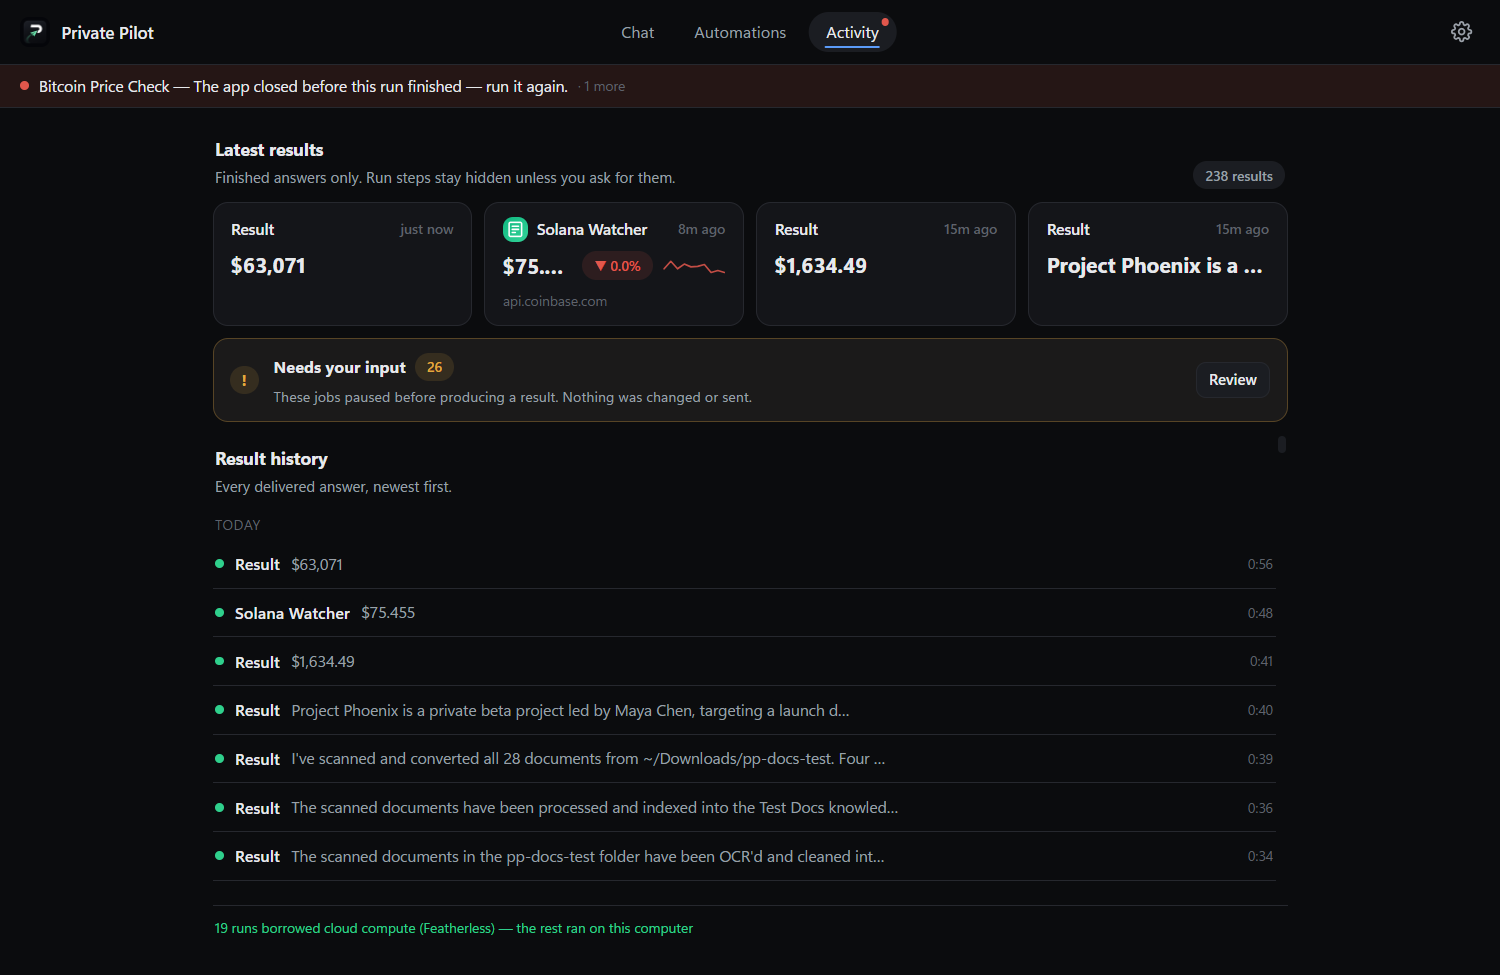
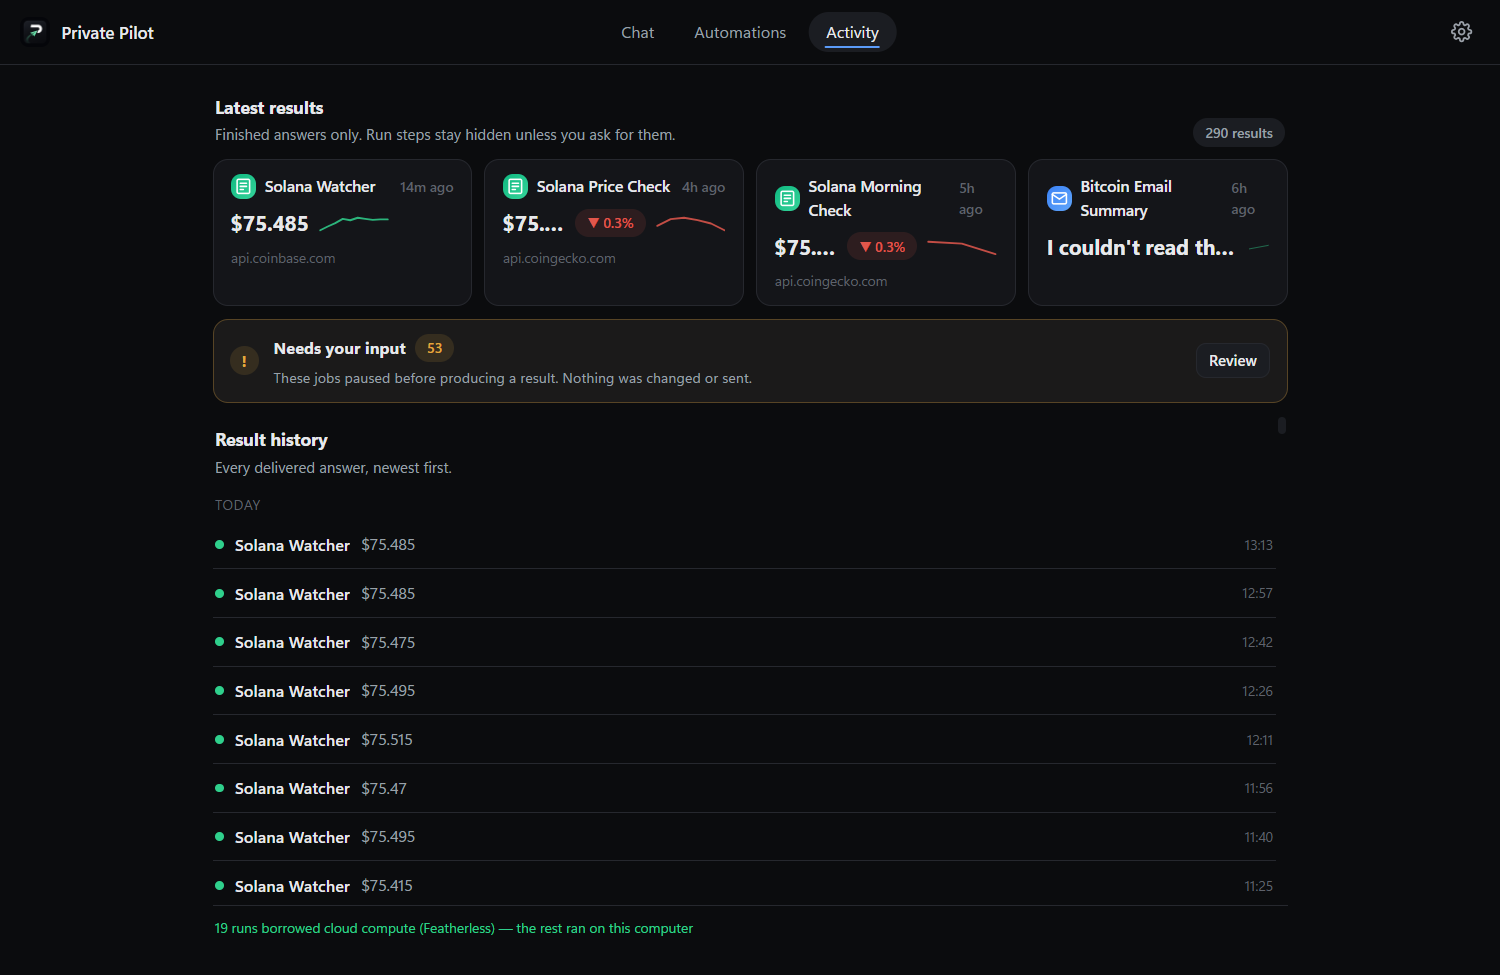
README: fresh screenshots from the running app, plus Settings
Replaces the three screenshots with captures taken from the app as it stands
now, and adds a fourth. The old ones predated the chaining work, the Settings
cleanup and the conditional sequences, so they no longer showed what the app
does.

  chat-answer.png  a normal request compiling to a readable automation
  automations.png  three scheduled workflows, one with a visible conditional
                   edge and one that stopped rather than guess
  activity.png     290 results with their sources, 53 paused without sending,
                   and the cloud-compute footer
  settings.png     ten local models described in plain language (new)

Each carries a short caption under the image rather than only alt text, so the
point of the shot survives for a reader skimming headings.

diff --git a/README.md b/README.md
@@ -8,11 +8,10 @@ leaves the computer unless you flip a labelled switch.
 [![verify](https://github.com/Awalker77s/PrivatePilot/actions/workflows/verify.yml/badge.svg)](https://github.com/Awalker77s/PrivatePilot/actions/workflows/verify.yml)
 [![license: MIT](https://img.shields.io/badge/license-MIT-blue.svg)](LICENSE)
 
-![Private Pilot — a request compiled into a readable automation, run, and answered in the chat](docs/img/chat-answer.png)
+![Chat: one sentence becomes an automation you can read, with Try it once before anything is saved](docs/img/chat-answer.png)
 
-<sub>One sentence → a record you can audit → a watched run → an answer whose
-every number was checked against the page it came from. No API key, no account,
-no server.</sub>
+<sub>One sentence becomes an automation you can read — the exact sites it will
+touch, and a Try it once button before anything is saved.</sub>
 
 <!-- After recording the demo, paste the PUBLIC video URL here as:
      > **Demo video:** https://... -->
@@ -60,7 +59,10 @@ Six things it can do, in one line each:
 - **Learn by watching** — do the task once while narrating, and it compiles what
   you did into the same kind of readable automation.
 
-![The Automations tab: saved automations and sequences with their last results](docs/img/automations.png)
+![Automations: three scheduled workflows with their real results, a conditional edge, and every saved automation](docs/img/automations.png)
+
+<sub>Scheduled workflows with their real results — a conditional edge (only
+under 75.5), and a step that stopped rather than guess.</sub>
 
 ---
 
@@ -388,6 +390,11 @@ you flip, per model, knowingly.
 One pipeline serves both. Every part of the app asks for "the model" and never
 knows or cares which one answered, so the two paths can't drift apart.
 
+![Settings: ten local models detected, described in plain language, with the one in use showing its real state](docs/img/settings.png)
+
+<sub>Ten local models detected and described in plain language. No API key, no
+account, no subscription — cloud is opt-in and off by default.</sub>
+
 ### The default was chosen by measurement
 
 Five local models, the **same eight jobs**, run through the app's own compiler
@@ -474,7 +481,10 @@ comparing the two paths honestly.
 **Every run records where it ran.** Which is what turns "nothing leaves your
 computer" from a promise into something you can check afterwards:
 
-![The Activity tab: delivered results, an amber card holding jobs that paused before producing an answer, and a footer accounting for which runs used cloud compute](docs/img/activity.png)
+![Activity: 290 results with their sources, 53 jobs paused without sending, and a cloud-compute footer](docs/img/activity.png)
+
+<sub>A receipt for every run: results with their sources, jobs that paused
+without sending, and which runs used cloud compute.</sub>
 
 That footer — *"19 runs borrowed cloud compute (Featherless) — the rest ran on
 this computer"* — is the receipt. So is the amber card: jobs that **paused
